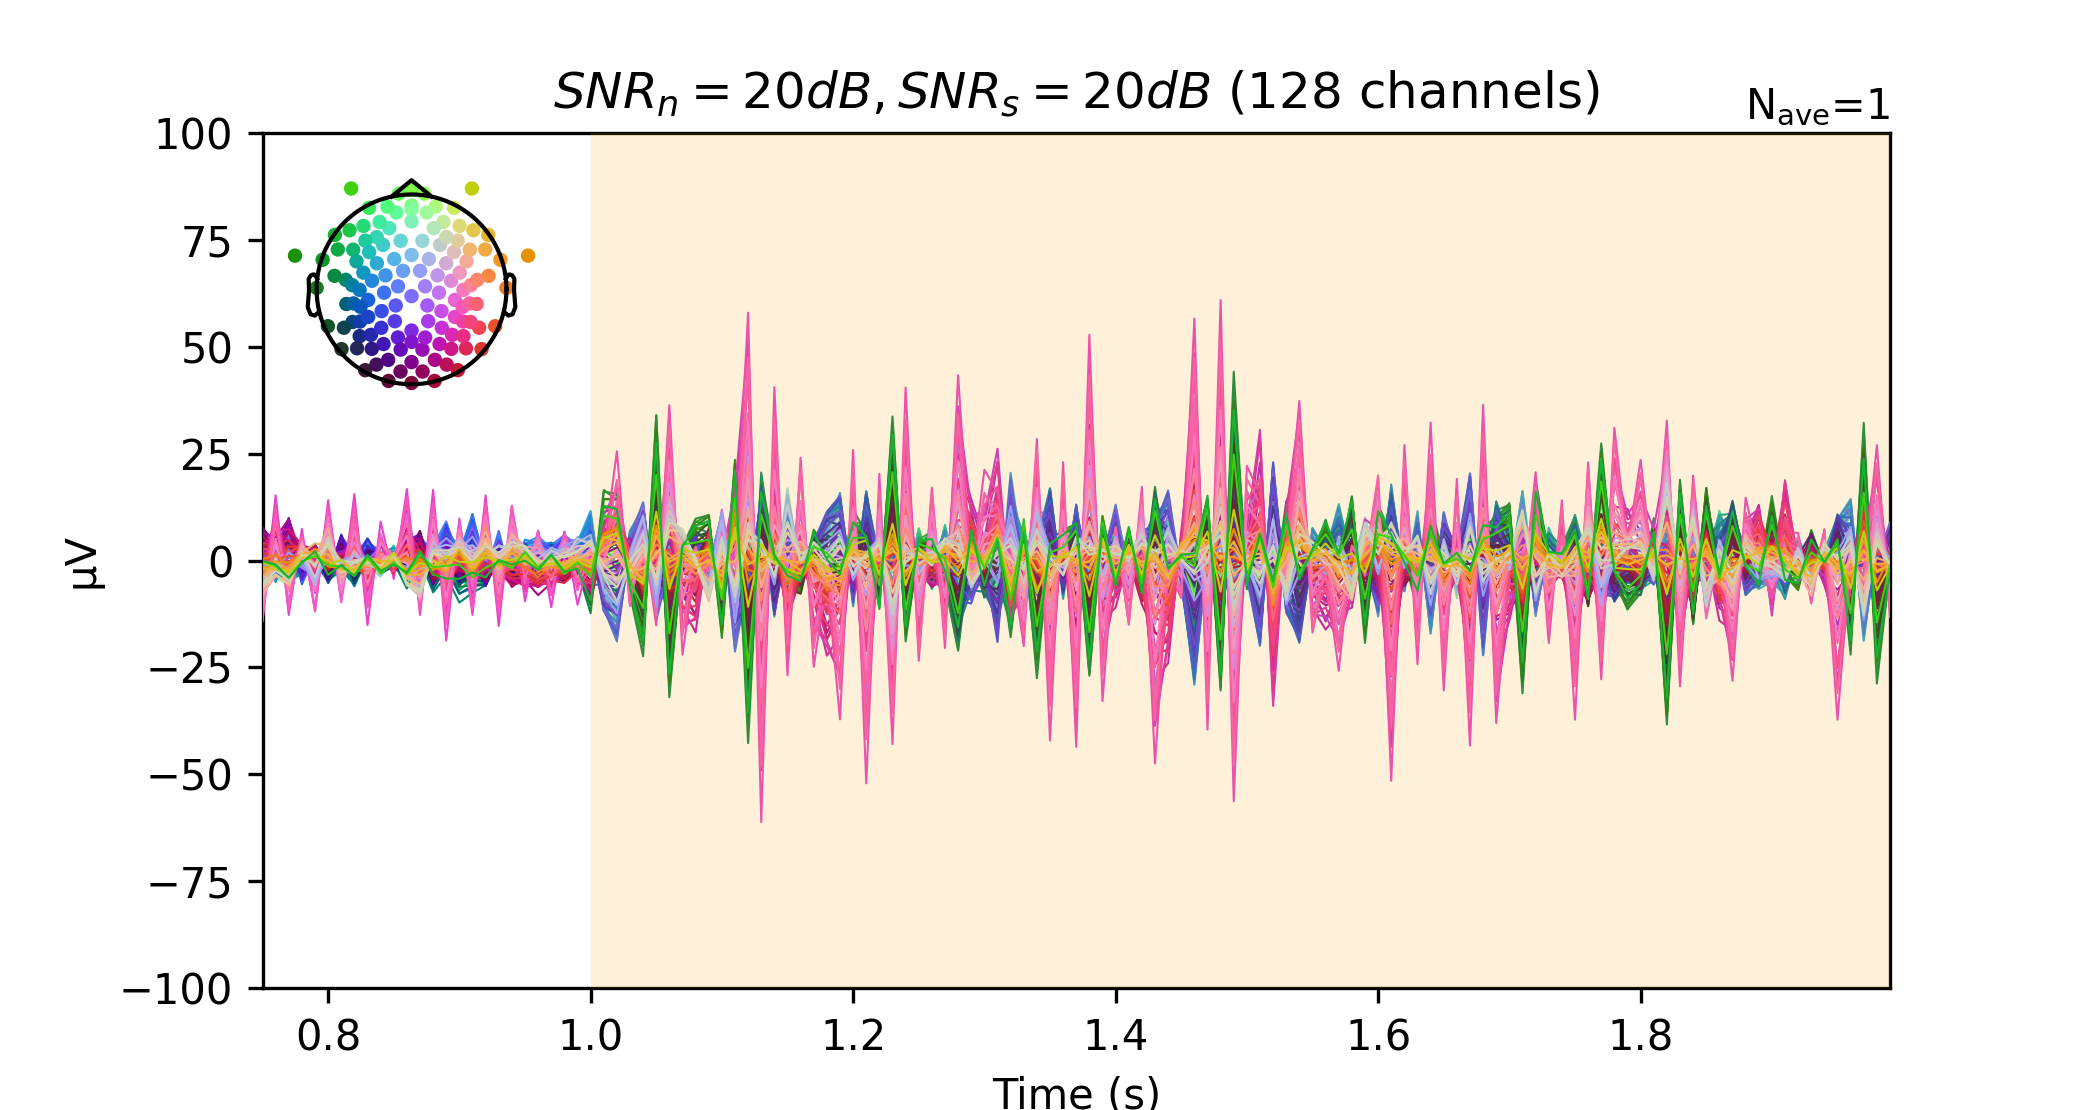
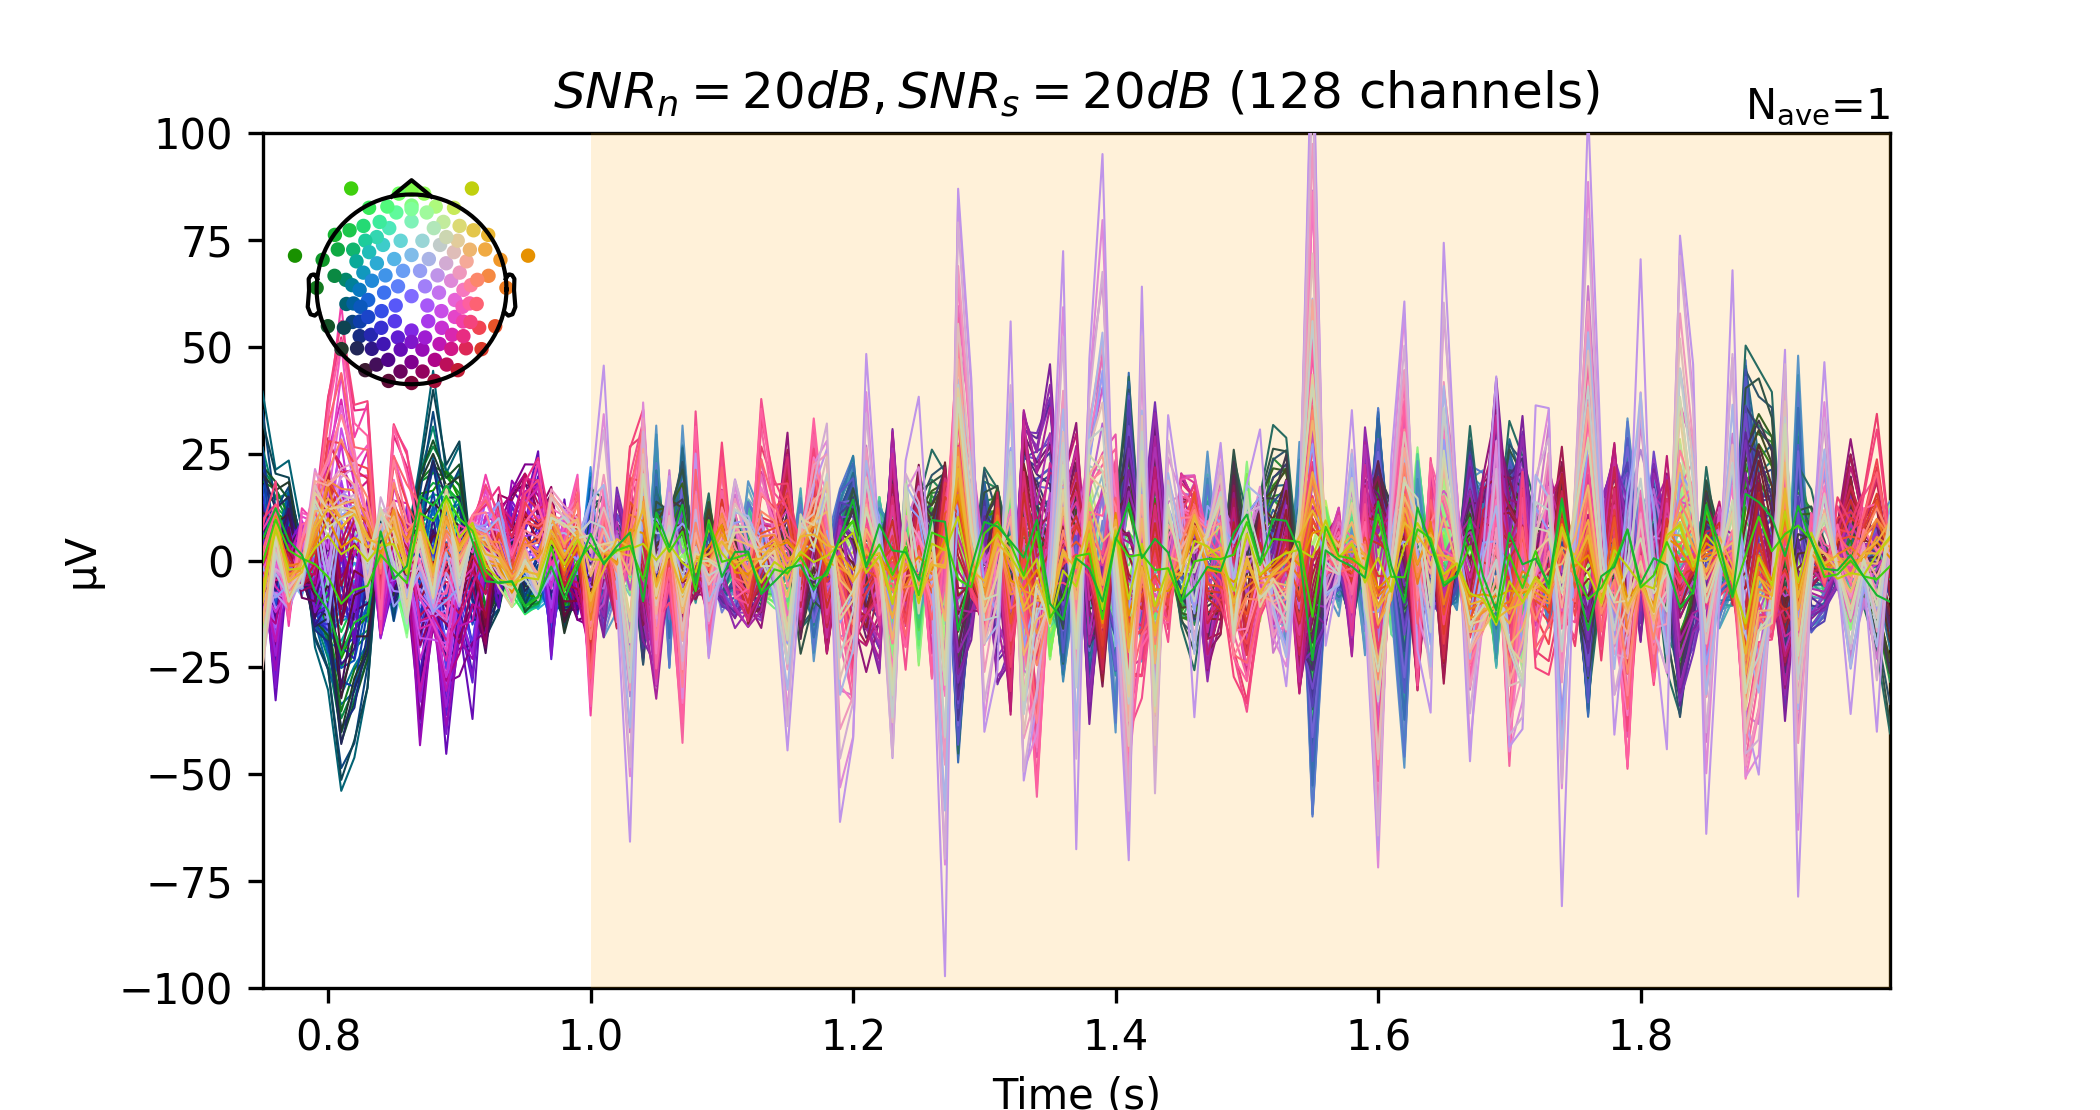
update for debiasing weight

Changed region(s): [[0.1238, 0.1225, 0.8976, 0.7658]]

diff --git a/simulation_study.py b/simulation_study.py
@@ -217,7 +217,7 @@ for sim_num in range(10):
 
                     # use LCMV as prior, which may be regarded as a soft thresholded sure independence screening 
                     filters = mne.beamformer.make_lcmv(evoked.info, fwd, cov_all, pick_ori="vector",
-                                                       noise_cov=cov,
+                                                       #noise_cov=cov,
                                                        rank=None,depth=1,verbose=False)
                     stc = mne.beamformer.apply_lcmv(evoked, filters,verbose=False)
                     wlist1d = np.linalg.norm(stc.data, axis = (1,2))
@@ -231,7 +231,7 @@ for sim_num in range(10):
                         # calculate estimated X without bias correction
                         Xout, lamt, sigma_list = \
                             gl_ADMM_dual_joint(10,X0,G_mat,Y_mat,lambda_i,O,wlist = wlist,block_mathod='consecutive',
-                                               tol = 1e-7,tol_norm=1e-7,max_iter = 4000, varing_rho = True)
+                                               tol = 1e-5,tol_norm=1e-5,max_iter = 4000, varing_rho = True)
                         # I_hat is the estimated active source locations
                         I_hat, G_tensor, Xt_tensor = _cal_I_hat(Xout, G_mat, O, block_mathod='consecutive')
                         estnum = I_hat.shape[0]
@@ -248,7 +248,7 @@ for sim_num in range(10):
 
                         # calculate the debiased X with set A been I_hat
                         Xout_debias, Xout_debias_rotate, significance_list = \
-                            gl_ADMM_dual_bias_correction(I_hat, Xt_tensor, G_tensor, Y_mat, lambda_i*100, O, 
+                            gl_ADMM_dual_bias_correction(I_hat, Xt_tensor, G_tensor, Y_mat, lambda_i*100, O,wlist = wlist, 
                                                          bias_correction_method = 'joint', clear_not_select=True,
                                                          block_mathod='consecutive', tol = 1e-5,tol_norm=1e-5,
                                                          max_iter = 4000,
@@ -296,10 +296,9 @@ for sim_num in range(10):
                         Xt_tensor = Xt_tensor / Y_mat_adj * G_mat_adj
                         Xout_debias, Xout_debias_rotate, significance_list = \
                             gl_ADMM_dual_bias_correction(estimated_locs_raw, Xt_tensor, G_tensor, Y_mat, lambda_i*100, 
-                                                            O, bias_correction_method = 'joint', clear_not_select=True,
-                                                            block_mathod='consecutive', tol = 1e-5,tol_norm=1e-5,
-                                                            max_iter = 4000,
-                                                            varing_rho=True)
+                                                         O,wlist = wlist, bias_correction_method = 'joint', 
+                                                         clear_not_select=True, block_mathod='consecutive', tol = 1e-5,
+                                                         tol_norm=1e-5, max_iter = 4000, varing_rho=True)
                         Xout_debias = Xout_debias * Y_mat_adj / G_mat_adj
                         Xout_debias = Xout_debias.reshape((S,O,T))
                         # calculate statistics for the debiased X

diff --git a/ADMM_GroupLASSO.py b/ADMM_GroupLASSO.py
@@ -98,9 +98,9 @@ def _Gtensor_covariance(G_tensor,depth=1):
     sigma_G_sqrt_inv = np.einsum('ijl,jl,kjl->ikl',sigma_G_eigenvectors,sigma_G_eigenvalues_sqrt_inv,sigma_G_eigenvectors)
     return sigma_G_sqrt, sigma_G_sqrt_inv
 
-def gl_ADMM_dual_bias_correction(I_hat_all, Xt_tensor, G_tensor, Y, lam, O, bias_correction_method = 'joint', 
-                                 clear_not_select = False, block_mathod='consecutive', tol=1e-8,tol_norm=1e-4, 
-                                 max_iter=1000,varing_rho=True):
+def gl_ADMM_dual_bias_correction(I_hat_all, Xt_tensor, G_tensor, Y, lam, O, wlist='auto', 
+                                 bias_correction_method = 'joint', clear_not_select = False, block_mathod='consecutive', 
+                                 tol=1e-8,tol_norm=1e-4, max_iter=1000,varing_rho=True):
     Xout_debias = Xt_tensor.copy()
     neg_I_hat = np.setdiff1d(np.arange(int(G_tensor.shape[-1]/1)), I_hat_all)
     Xout_debias[neg_I_hat, :] = 0
@@ -109,12 +109,19 @@ def gl_ADMM_dual_bias_correction(I_hat_all, Xt_tensor, G_tensor, Y, lam, O, bias
     S = int(G_tensor.shape[-1])
     T = Y.shape[1]
 
-    sigma_G_sqrt, sigma_G_sqrt_inv = _Gtensor_covariance(G_tensor)
-    G_tilde = np.einsum('ikl, kjl->ijl',G_tensor, sigma_G_sqrt_inv)
-    if clear_not_select:
-        Xt_tilde = np.einsum('ijl, ljk->lik', sigma_G_sqrt, Xout_debias)
+    if wlist == 'auto':
+        sigma_G_sqrt, sigma_G_sqrt_inv = _Gtensor_covariance(G_tensor)
     else:
-        Xt_tilde = np.einsum('ijl, ljk->lik', sigma_G_sqrt, Xt_tensor)
+        sigma_G_sqrt = wlist[0]
+        sigma_G_sqrt_inv = wlist[1]
+    G_tilde = G_tensor.copy()
+    G_tilde[:,:,neg_I_hat] = np.einsum('ikl, kjl->ijl',G_tensor[:,:,neg_I_hat], sigma_G_sqrt_inv[:,:,neg_I_hat])
+    if clear_not_select:
+        Xt_tilde = Xout_debias.copy()
+        Xt_tilde[neg_I_hat,:,:] = np.einsum('ijl, ljk->lik', sigma_G_sqrt[:,:,neg_I_hat], Xout_debias[neg_I_hat,:,:])
+    else:
+        Xt_tilde = Xt_tensor.copy()
+        Xt_tilde[neg_I_hat,:,:] = np.einsum('ijl, ljk->lik', sigma_G_sqrt[:,:,neg_I_hat], Xt_tensor[neg_I_hat,:,:])
     
     if bias_correction_method == 'joint':
         I_hat = I_hat_all
@@ -136,8 +143,8 @@ def gl_ADMM_dual_bias_correction(I_hat_all, Xt_tensor, G_tensor, Y, lam, O, bias
             if debias_flag_idx:
                 significance_list[I_hat] = np.linalg.norm(effect_mat @ X_hat_debias_idx)
 
-    Xout_debias = np.einsum('ijl, ljk->lik', sigma_G_sqrt_inv, Xout_debias)
-    Xout_debias_rotate = np.einsum('ijl, ljk->lik', sigma_G_sqrt_inv, Xout_debias_rotate)
+    # Xout_debias = np.einsum('ijl, ljk->lik', sigma_G_sqrt_inv, Xout_debias)
+    # Xout_debias_rotate = np.einsum('ijl, ljk->lik', sigma_G_sqrt_inv, Xout_debias_rotate)
     if block_mathod == 'jump':
         Xout_debias = np.reshape(Xout_debias, (S*O,T), order='F')
         Xout_debias_rotate = np.reshape(Xout_debias_rotate, (S*O,T), order='F')
